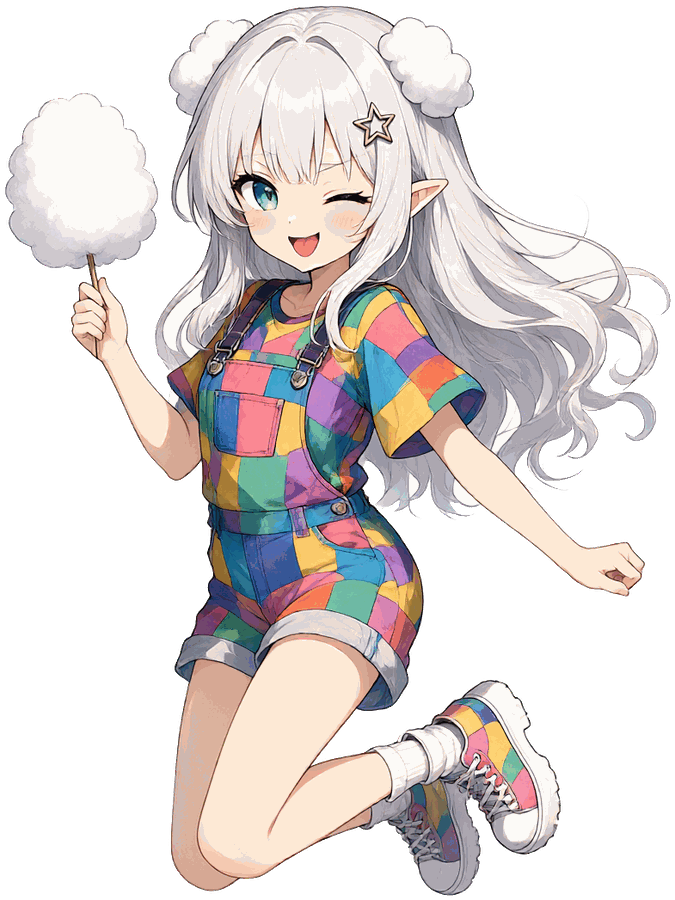
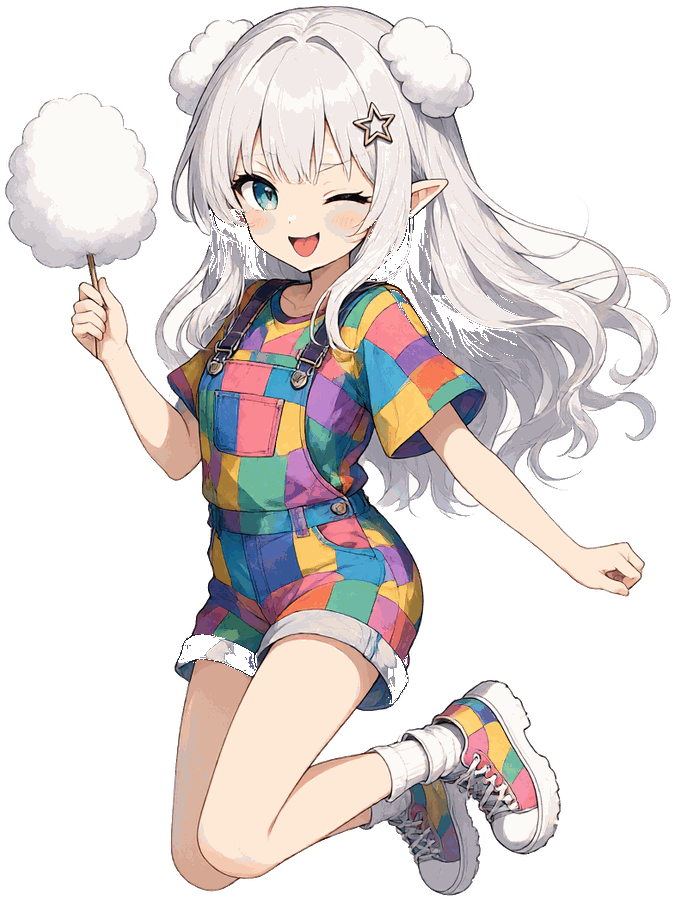
docs: VERSIONS.md 补 v3.80.0 条目（共 45 个版本）

diff --git a/sw.js b/sw.js
@@ -8,7 +8,7 @@
         player-kit / world-runtime 全系等 60+ 文件），此前离线模式功能残缺
      3. 版本号体系与主版本 v3.46.0 对齐
 */
-const SW_VER = 'yunjing-v3.81.2';  /* v3.73.0 大厅焕新「鎏金云海」：新增 css/lobby-refresh.css 作用域 html body.page-index——深夜金霞天幕、衬线大字门面(眉线+落影+暖金标语胶囊)、五大工坊门户大卡与33界世界卡按 --ws-hue 色相琉璃化(hover上浮发光+胶囊入场钮)、折叠分组暖金化(glyph方章/界数pill/圆框caret)、卷首语横幅电影化(衬线金标题+六feat玻璃块+金CTA)、初来乍到信息卡与版本徽标页脚统一暖金。v3.72.0 四套主界面板式可选(?theme=ink 水墨卷轴/star 星穹HUD/gold 鎏金殿阁/cloud 云白卡片Bento)+对照台style-lab.html，主题CSS作用域html body.page-studio默认不启用。v3.68.0 全项目审计修复：①串档三件套——身份三态/穿越者关系/界专属模块/资料库全部按存档槽隔离(主档裸键零迁移)，清档与删槽一并清灵宠/小队/三态/资料库，灵宠小队随存档导出导入(跨设备不再丢)；②核心循环——driftNotes 类型统一为数组(此前 TypeError 静默吞掉每轮全部场域注记)、JSON 变体路径 wordCount 走增量守卫(+1200 不再清零累计)、未闭合变量块只取协议行段不再把正文当指令、regenerate/rollback 等待期上锁防双击双发、温度 0 不再被 ||0.9 吞掉、章节保底仅在写了块漏 chapter 时推进、补协议请求与闭合自检统一为六类口径、coreContract 变量块改英文固定键协议、场域注记不再静默；③安全——行旅图鉴动态文本(AI 上报地标/大势事件/玩家名)全量转义防存储型 XSS、状态面板 esc 补引号转义、知识库 kb-item 禁用态类名拼接修复(真 bug)、存档导入加 20MB 防护；④SW——缓存命中 ignoreSearch 去参匹配(预缓存此前永不命中白做)、HTML 导航 network-first(版本更新即见新版)、预缓存清单补灵宠/小队/连接配置；⑤接线——灵宠/小队战斗块接入战斗提示词、applyEvent 接战斗受伤/疗伤、主笔灵宠去重(已入队不再重复注入)、立场缺省与新三态对齐(消除双轨矛盾)、灵宠养护/羁绊每轮限次、world-plus 中文数字解析(二十三级不再解析为 null)；⑥UI——studio 版本徽标对齐 v3.68.0 并砍掉 2 万字 title、AI 补记日记字段修正(t.userInput→t.user)、表情面板不再清空已输入文字、小云双 handler 去重、小云隐藏前先告别、队长徽标按队首判定、小队容量口径统一。v3.66.0 主界面焕新「天光玻璃」：极光天幕（青紫霞三色极光带+流云）+ 玻璃拟态卡片（毛玻璃+渐变描边+内高光）+ 工坊字徽彩色柔光底 + hover 抬升与光泽扫过 + 首屏渐入动效（stagger，respect prefers-reduced-motion），老内核 color-mix 静态回退。v3.65.0 属性引擎·实时事件化：受伤扣减/疗伤加回/突破精进事件化直接落表（值域0-100仍钳死），落 v.statLog 审计账本并派发 yj:stat-change 即时反馈（面板闪动+Δ浮标：受伤红/恢复绿）；每项数值按语义轴映射专长，实时块与面板同步凸显；主笔实时块新增「数值专长」与「近期数值变动」两行；时间跨越补涨同入账本。v3.64.0 小队系统：邀请同伴/灵宠入队、编队设队长、羁绊驱动协同技、接入主笔与战斗 prompt（与灵宠系统联动）。v3.63.0 灵宠·妖兽·伙伴系统：宠物/灵兽/妖兽/伙伴 四类随行存在，契约→养成→升级→羁绊→随队，按存档持久化，接入主笔 prompt。v3.62.0 身份三态重做：原著主角(大势不可改小势可调)/原著配角(按原著定位生成人生)/完全原创(玩家设定+模型辅助)；开局向导三态卡片+配角选择。v3.61.1 连招健壮性：外部动作打断未完成连招，避免姿态叠加覆盖。v3.61.0 动态小云·全态可交互动画引擎：12 态各 3 个动作姿态关键帧(挥手/战斗/开心)交叉淡入叠加 CSS 动效，待机随机秀动作，菜单「秀一下」编排。v3.60.1 御姐形态重绘：年轻时尚化（香槟金裙+白开衫+云朵耳坠），画风与全 12 态统一。v3.60.0 动态小云：行为引擎(蹦跳/转圈/闲逛/哼歌/真瞌睡)+亲密度+剧情感知+视线跟随+3张半身补全身。v3.59.1 小云十二形态（AI 生图 PNG，删 SVG）。v3.59.0 主界面换肤「晓云天光」+ 小云五形态换装。v3.58.0 世界自活（P6）：原创人物/势力/地点自动繁衍上图 + 自由人生。v3.57.0「让世界活起来」引擎全套（P2-P5）：
+const SW_VER = 'yunjing-v3.81.3';  /* v3.73.0 大厅焕新「鎏金云海」：新增 css/lobby-refresh.css 作用域 html body.page-index——深夜金霞天幕、衬线大字门面(眉线+落影+暖金标语胶囊)、五大工坊门户大卡与33界世界卡按 --ws-hue 色相琉璃化(hover上浮发光+胶囊入场钮)、折叠分组暖金化(glyph方章/界数pill/圆框caret)、卷首语横幅电影化(衬线金标题+六feat玻璃块+金CTA)、初来乍到信息卡与版本徽标页脚统一暖金。v3.72.0 四套主界面板式可选(?theme=ink 水墨卷轴/star 星穹HUD/gold 鎏金殿阁/cloud 云白卡片Bento)+对照台style-lab.html，主题CSS作用域html body.page-studio默认不启用。v3.68.0 全项目审计修复：①串档三件套——身份三态/穿越者关系/界专属模块/资料库全部按存档槽隔离(主档裸键零迁移)，清档与删槽一并清灵宠/小队/三态/资料库，灵宠小队随存档导出导入(跨设备不再丢)；②核心循环——driftNotes 类型统一为数组(此前 TypeError 静默吞掉每轮全部场域注记)、JSON 变体路径 wordCount 走增量守卫(+1200 不再清零累计)、未闭合变量块只取协议行段不再把正文当指令、regenerate/rollback 等待期上锁防双击双发、温度 0 不再被 ||0.9 吞掉、章节保底仅在写了块漏 chapter 时推进、补协议请求与闭合自检统一为六类口径、coreContract 变量块改英文固定键协议、场域注记不再静默；③安全——行旅图鉴动态文本(AI 上报地标/大势事件/玩家名)全量转义防存储型 XSS、状态面板 esc 补引号转义、知识库 kb-item 禁用态类名拼接修复(真 bug)、存档导入加 20MB 防护；④SW——缓存命中 ignoreSearch 去参匹配(预缓存此前永不命中白做)、HTML 导航 network-first(版本更新即见新版)、预缓存清单补灵宠/小队/连接配置；⑤接线——灵宠/小队战斗块接入战斗提示词、applyEvent 接战斗受伤/疗伤、主笔灵宠去重(已入队不再重复注入)、立场缺省与新三态对齐(消除双轨矛盾)、灵宠养护/羁绊每轮限次、world-plus 中文数字解析(二十三级不再解析为 null)；⑥UI——studio 版本徽标对齐 v3.68.0 并砍掉 2 万字 title、AI 补记日记字段修正(t.userInput→t.user)、表情面板不再清空已输入文字、小云双 handler 去重、小云隐藏前先告别、队长徽标按队首判定、小队容量口径统一。v3.66.0 主界面焕新「天光玻璃」：极光天幕（青紫霞三色极光带+流云）+ 玻璃拟态卡片（毛玻璃+渐变描边+内高光）+ 工坊字徽彩色柔光底 + hover 抬升与光泽扫过 + 首屏渐入动效（stagger，respect prefers-reduced-motion），老内核 color-mix 静态回退。v3.65.0 属性引擎·实时事件化：受伤扣减/疗伤加回/突破精进事件化直接落表（值域0-100仍钳死），落 v.statLog 审计账本并派发 yj:stat-change 即时反馈（面板闪动+Δ浮标：受伤红/恢复绿）；每项数值按语义轴映射专长，实时块与面板同步凸显；主笔实时块新增「数值专长」与「近期数值变动」两行；时间跨越补涨同入账本。v3.64.0 小队系统：邀请同伴/灵宠入队、编队设队长、羁绊驱动协同技、接入主笔与战斗 prompt（与灵宠系统联动）。v3.63.0 灵宠·妖兽·伙伴系统：宠物/灵兽/妖兽/伙伴 四类随行存在，契约→养成→升级→羁绊→随队，按存档持久化，接入主笔 prompt。v3.62.0 身份三态重做：原著主角(大势不可改小势可调)/原著配角(按原著定位生成人生)/完全原创(玩家设定+模型辅助)；开局向导三态卡片+配角选择。v3.61.1 连招健壮性：外部动作打断未完成连招，避免姿态叠加覆盖。v3.61.0 动态小云·全态可交互动画引擎：12 态各 3 个动作姿态关键帧(挥手/战斗/开心)交叉淡入叠加 CSS 动效，待机随机秀动作，菜单「秀一下」编排。v3.60.1 御姐形态重绘：年轻时尚化（香槟金裙+白开衫+云朵耳坠），画风与全 12 态统一。v3.60.0 动态小云：行为引擎(蹦跳/转圈/闲逛/哼歌/真瞌睡)+亲密度+剧情感知+视线跟随+3张半身补全身。v3.59.1 小云十二形态（AI 生图 PNG，删 SVG）。v3.59.0 主界面换肤「晓云天光」+ 小云五形态换装。v3.58.0 世界自活（P6）：原创人物/势力/地点自动繁衍上图 + 自由人生。v3.57.0「让世界活起来」引擎全套（P2-P5）：
    v3.57.1 修复：EntityStore 单复数归一（list("characters") 曾恒空，关系连线在角色池上静默失效）。
    ① entity-editor.js 统一填表（法宝/势力/地点/关系，schema 驱动）
    ② sim-core.js 推演引擎（规则核心·种子化可复算·what-if 分叉）

diff --git a/changelog/index.html b/changelog/index.html
@@ -284,6 +284,15 @@
 
         <article class="log-entry" data-tags="立绘 修复 稳定" style="--entry-hue:#8a3b3b;">
             <div class="entry-head">
+                <span class="entry-ver">v3.81.3</span>
+                <span class="entry-date">2026-11-03</span>
+            </div>
+            <h3 class="entry-title">浅底验收补盲：发间/腿间死灰空隙残留清零</h3>
+            <p class="entry-text">用户指出大厅小云（chibi-luo）头发脏灰、腿部有灰色竖条——根因是历次验收都用深底，而「发束间空隙被死灰填充」这类残留只在浅底可见，属验收盲区。建立浅色底验收流程后全量重查：扫描 60 张的中性/灰紫均匀实心块共 196 处，逐处放大定性——绝大多数为发丝暗面正常画法（浅灰紫 150-165，浅底不显脏，保留）；确认 20 处死灰残留空隙（RGB 88-140 均匀死色，chibi-luo×7 含腿间竖条 / chibi-gaoguai×7 / chibi-yu / face-luo / gaoguai-happy 裤脚旁 / kusa-wave 裤间 std=0 竖条 / chibi-aojiao），带半透软边共清除约 1.69 万 px。黑夹克褶皱、帽内面、运动鞋灰紫鞋面、裙面等 15 处同色邻居经放大甄别后全部保留。6 张涉及图浅底复验：残留清零、本体零损伤。</p>
+        </article>
+
+        <article class="log-entry" data-tags="立绘 修复 稳定" style="--entry-hue:#8a3b3b;">
+            <div class="entry-head">
                 <span class="entry-ver">v3.81.2</span>
                 <span class="entry-date">2026-11-03</span>
             </div>

diff --git a/index.html b/index.html
@@ -18,7 +18,7 @@
     <meta http-equiv="Cache-Control" content="no-cache, no-store, must-revalidate">
     <!-- v3.51.1 机读标识迁移：旧 moshu* 键/库名 → yunjing*，必须在任何业务脚本之前同步跑完 -->
     <script src="js/id-migrate.js?v=3.55.29"></script>
-    <title>云境 v3.81.2 · AI创作与开放世界扮演</title>
+    <title>云境 v3.81.3 · AI创作与开放世界扮演</title>
     <style>
         /* v3.75.0 大厅全面重设计「纸本」：样式整体迁移至 css/lobby-v4.css，此处仅留变量兜底 */
         :root {
@@ -48,13 +48,13 @@
       })();
     </script>
     <!-- v3.78.0「晨青·楷变」：楷体艺术字标题 + 波浪错落工坊 + 卡化沉浸段，整份替换即回滚 -->
-    <link rel="stylesheet" href="css/lobby-v4.css?v=3.81.2">
+    <link rel="stylesheet" href="css/lobby-v4.css?v=3.81.3">
     <script src="js/theme-studio.js?v=3.55.29"></script>
 </head>
 
 <body class="page-index">
     <div class="stars"><i></i><i></i><i></i><i></i><i></i><i></i><i></i></div>
-    <a class="ver-badge" href="changelog/" title="查看创作日志 · 独立成册">v3.81.2 云境版</a>
+    <a class="ver-badge" href="changelog/" title="查看创作日志 · 独立成册">v3.81.3 云境版</a>
 
     <!-- 开屏 -->
     <div id="splash">
